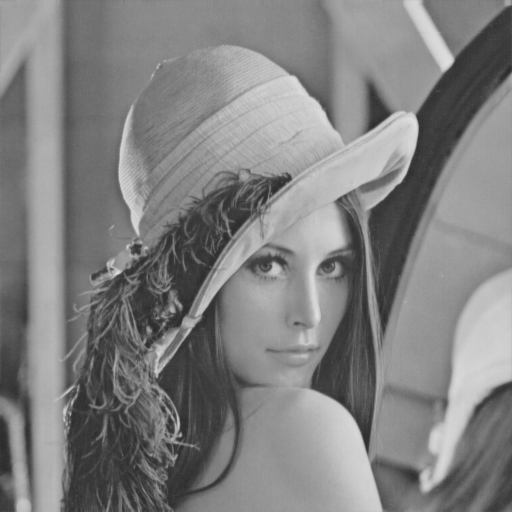
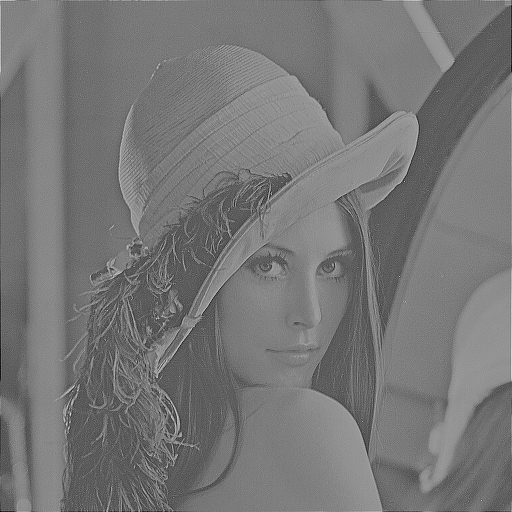
added fft.shift

diff --git a/mmn12/q1.py b/mmn12/q1.py
@@ -92,10 +92,10 @@ def apply_laplacian_filter(image: np.ndarray, c: float = -1) -> np.ndarray:
     # D_uv is the distance function, Eq. (4-112)
     D_uv = np.sqrt(np.square(np.arange(P) - P / 2)[:, None] + np.square(np.arange(Q) - Q / 2)[None, :])
     
-    F_uv = np.fft.fft2(image)
+    F_uv = np.fft.fftshift(np.fft.fft2(image))
     H_uv = -4 * np.square(np.pi) * np.square(D_uv)  # Eq. (4-124)
-    laplacian = np.fft.ifft2(H_uv * F_uv)  # Eq. (4-125)
-    laplacian = np.real(laplacian)  # Take the real part of the Laplacian filter.
+    laplacian = np.fft.ifft2(np.fft.fftshift(H_uv * F_uv))  # Eq. (4-125)
+    laplacian = laplacian.real  # Take the real part of the Laplacian filter.
     laplacian /= np.max(np.abs(laplacian))  # Normalize the Laplacian filter to [-1, 1].
     sharpened_image = image + c * laplacian  # Eq. (4-126)
 
